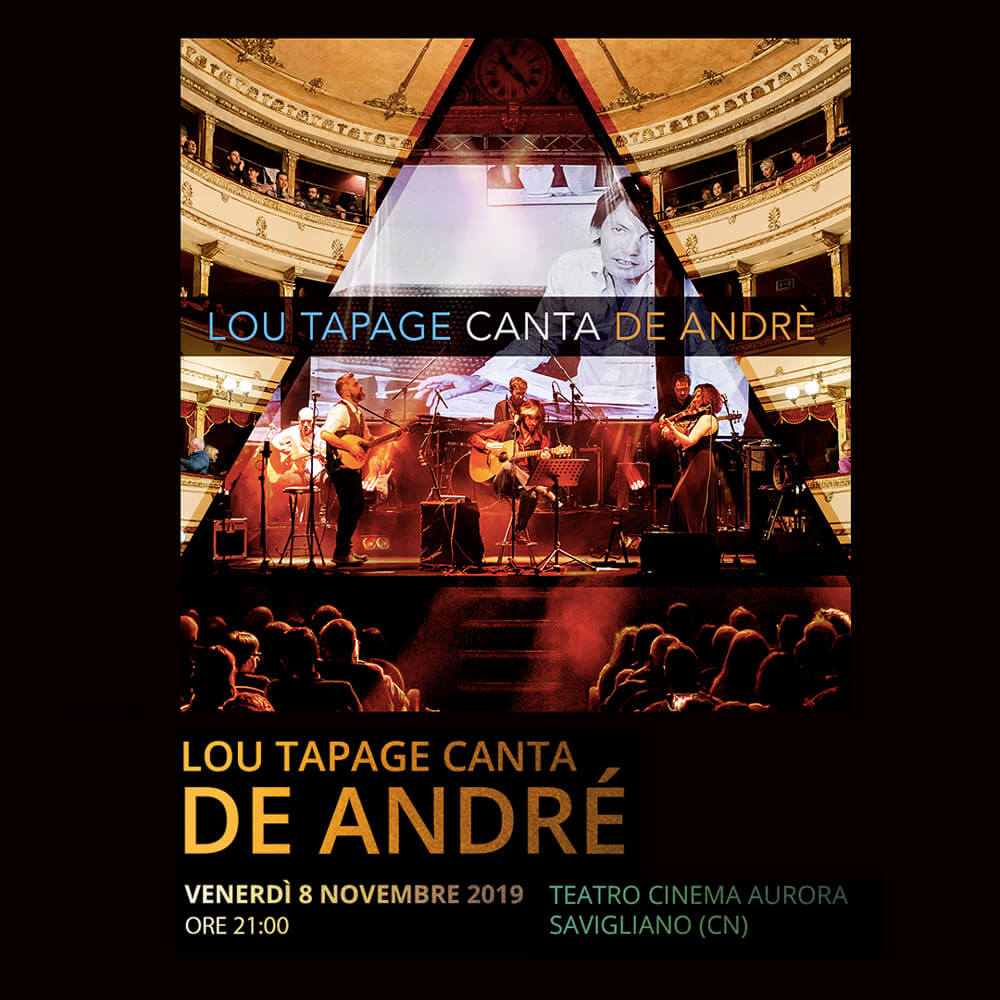
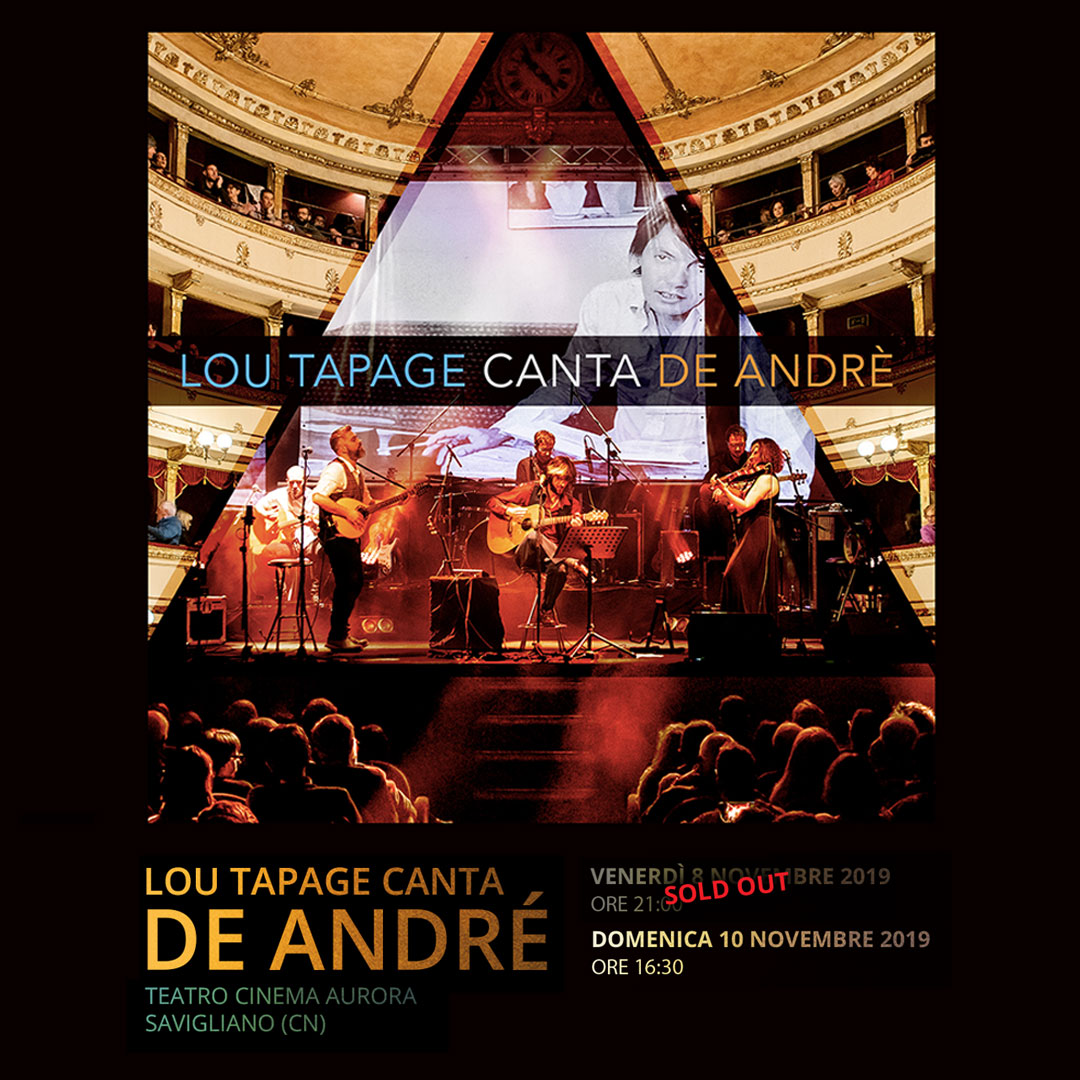
update de andre event

diff --git a/index.html b/index.html
@@ -450,9 +450,9 @@ ul.products li {
 <div id="modal__container" class="is-visible">
     <div id="modal__window">
         <div id="modal__content">
-            <img src="/img/de-andre-2019.jpg" alt="Lou Tapage canta De andré" />
-            <img class="mobile" src="/img/de-andre-2019-square.jpg" alt="Lou Tapage canta De andré" />
-            <a href="https://www.eventbrite.it/e/biglietti-lou-tapage-canta-de-andre-73938880181" target="_blank" class="button button--red">ACQUISTA BIGLIETTI<i class="ti-arrow-right"></i></a>
+            <img src="/img/de-andre-2019.jpg?1" alt="Lou Tapage canta De andré" />
+            <img class="mobile" src="/img/de-andre-2019-square.jpg?1" alt="Lou Tapage canta De andré" />
+            <a href="https://www.eventbrite.it/e/biglietti-lou-tapage-canta-de-andre-75758376343" target="_blank" class="button button--red">ACQUISTA BIGLIETTI<i class="ti-arrow-right"></i></a>
             <a onclick="modal__close();" class="button">CHIUDI<i class="ti-close"></i></a>
         </div>
     </div>
